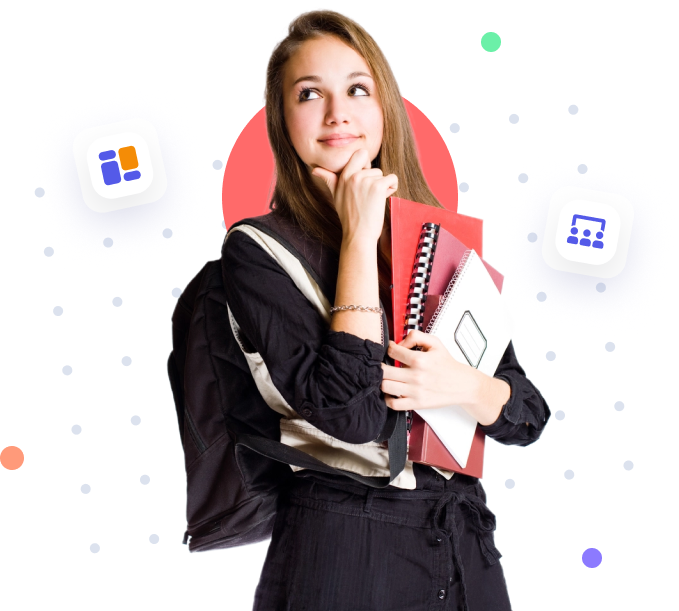
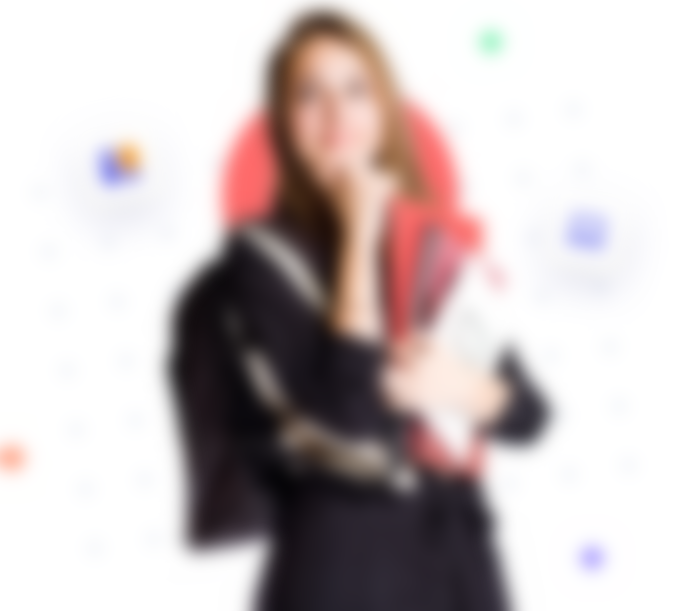
Refactor ProtectedRoutes to use useAuth hook and simplify access checks

diff --git a/src/component/ProductedRoutes.jsx b/src/component/ProductedRoutes.jsx
@@ -1,49 +1,19 @@
-import React, { useEffect } from 'react';
-import { Navigate, Outlet, useNavigate } from 'react-router-dom';
+import useAuth from '@/hooks/auth/useAuth';
+import { Navigate, Outlet } from 'react-router-dom';
 import NoAccess from './NoAccess/NoAccess';
-import { useDispatch } from 'react-redux';
-import { expiredToken } from '@/redux/features/expiredToken/expiredToken';
 
 
-const userRole = localStorage.getItem('userRole');
 const ProtectedRoutes = ({ isAuth, accessRole }) => {
-  const navigate = useNavigate();
-  const dispatch = useDispatch();
-  const [tokenChecked, setTokenChecked] = useState(false);
-  const [hasAccess, setHasAccess] = useState(false);
-
-  useEffect(()=>{
-    const checkToken = async()=>{
-      const expirationDate = localStorage.getItem('expirationDate');
-      const now = new Data().toISOString()
-
-      if(expirationDate && now >=expirationDate){
-        const result = await dispatch(expiredToken());
-
-        if(expiredToken.rejected.match(result)){
-          localStorage.removeItem('JWTToken');
-          localStorage.removeItem('refreshToken');
-          localStorage.removeItem('expirationDate');
-          localStorage.removeItem('userRole');
-          navigate('/auth/login');
-          return;
-        }
-      }
-      const roleCheck = accessRole === 'all' || userRole === accessRole;
-      setHasAccess(roleCheck);
-      setTokenChecked(true);
+  const { role, isLogedin} = useAuth();
   
-    }
-    checkToken();
-  },[accessRole, dispatch, navigate, userRole])
+  const hasAccess = role === accessRole || accessRole === 'all';
 
-  if (!isAuth) {
+ 
+
+  if (!isLogedin) {
     return <Navigate to="/auth/login" />;
   }
 
-  if (!tokenChecked) {
-    return <div className="text-center mt-10 text-gray-500">Checking authentication...</div>;
-  }
   
   if (!hasAccess) {
     return <NoAccess />;

diff --git a/src/Redux/store.js b/src/Redux/store.js
@@ -9,7 +9,7 @@ import allCoursesReducer from './features/allCourses/allCourses'
 import allLessonsReducer from './features/allLessons/allLessons'
 import allGategoryReducer from './features/allGategory/allGategory'
 import authSlice from './auth/authSlice';
-import teacherStatsReducer from './features/teacherStats/teacherStats';
+import teacherStatsReducer from '@/redux/features/teacherStats/teacherStats';
 
 let store = configureStore({
     reducer: {

diff --git a/src/hooks/auth/useAuth.jsx b/src/hooks/auth/useAuth.jsx
@@ -33,6 +33,7 @@ const useAuth = () => {
     return {
         user: authStore?.user,
         isLogedin: authStore?.isLogedin,
+        role: authStore?.role,
         // role
     }
 }
